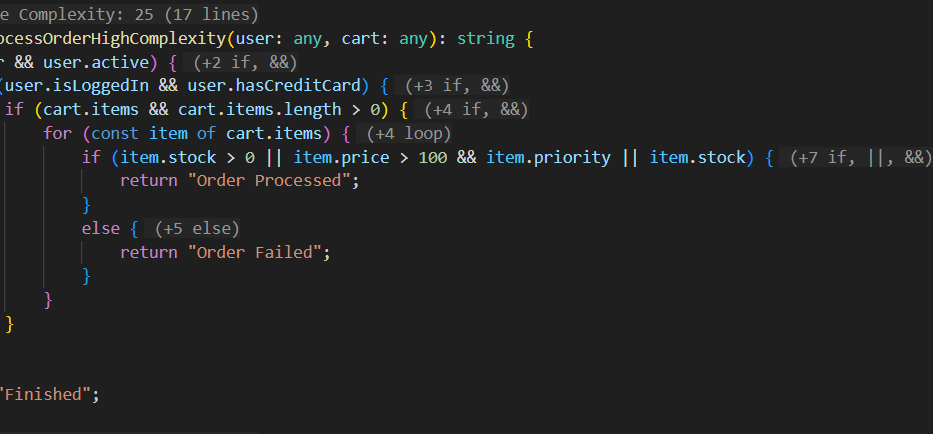
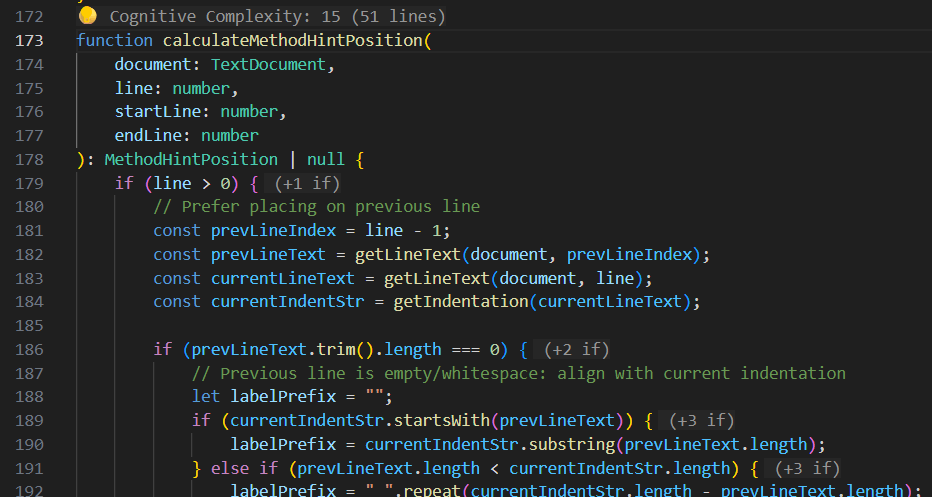
Update README and add walkthrough images
This commit updates the main README and various walkthrough files with
new and improved content. It also adds several new images to the
walkthrough directory, enhancing the visual documentation of the
extension's features, including CodeLens, Inlay Hints, Gutter Icons,
Complexity Deltas, Project Reports, and the Method Explorer.

diff --git a/packages/language-server/src/logic.ts b/packages/language-server/src/logic.ts
@@ -272,8 +272,15 @@ export function computeInlayHints(
                 deltaLabel = ` ${symbol} (${prefix}${method.complexityDelta})`;
             }
 
+            let icon = '🟢';
+            if (method.score >= settings.threshold.error) {
+                icon = '🔴';
+            } else if (method.score >= settings.threshold.warning) {
+                icon = '🟡';
+            }
+
             // If score is 0 but has delta, we might want a different icon or label
-            let label = `${posInfo.labelPrefix}${settings.totalScorePrefix}: ${method.score}${deltaLabel} (${lines} lines)`;
+            let label = `${posInfo.labelPrefix}${icon} ${settings.totalScorePrefix}: ${method.score}${deltaLabel} (${lines} lines)`;
 
             result.push({
                 position: posInfo.position,

diff --git a/packages/vscode-extension/README.md b/packages/vscode-extension/README.md
@@ -1,55 +1,77 @@
 # Cognitive Lens for VS Code
 
-This extension calculates and displays Cognitive Complexity for TypeScript, JavaScript, and C# methods directly in your editor.
+**Cognitive Lens** helps you write cleaner, more maintainable code by visualizing **Cognitive Complexity** directly in Visual Studio Code.
 
-## Features
+It goes beyond simple cyclomatic complexity by assessing how difficult a unit of code is to understand intuitively.
 
-### CodeLens
-Displays the total Cognitive Complexity score above each method.
+## ✨ Key Features
 
-![CodeLens](https://raw.githubusercontent.com/AhmmedSamier/cognitive-lens/main/packages/vscode-extension/resources/walkthrough/images/code-lens.png)
+### 1. Real-time Visualization
+*   **CodeLens**: Display the cumulative complexity score above methods.
+    
+    ![CodeLens](https://raw.githubusercontent.com/AhmmedSamier/cognitive-lens/main/packages/vscode-extension/resources/walkthrough/images/code-lens.png)
 
-### Inlay Hints
-Displays the complexity contribution of each line (e.g., `(+1 if)`).
+*   **Inlay Hints**: Detailed per-line breakdown of what contributes to complexity.
+    *   Example: `if (condition)` -> `+1 (if)`
+    *   Example: Nested logic -> `+2 (nesting)`
+    
+    ![Inlay Hints](https://raw.githubusercontent.com/AhmmedSamier/cognitive-lens/main/packages/vscode-extension/resources/walkthrough/images/score-details-per-line.png)
 
-![Inlay Hints](https://raw.githubusercontent.com/AhmmedSamier/cognitive-lens/main/packages/vscode-extension/resources/walkthrough/images/score-details-per-line.png)
+*   **Gutter Icons**: Traffic light icons in the gutter.
+    
+    ![Gutter Icons](https://raw.githubusercontent.com/AhmmedSamier/cognitive-lens/main/packages/vscode-extension/resources/walkthrough/images/gutters.png)
 
-### Gutter Icons
-Optional traffic light icons in the gutter to indicate complexity status.
+### 2. Complexity Deltas (New) 📉
+Track changes in real-time as you edit. Cognitive Lens compares your current code against the Git HEAD:
+*   **🟢 Improvement**: You reduced complexity (e.g., `🟢 -3`).
+*   **🔴 Regression**: You increased complexity (e.g., `🔴 +2`).
 
-![Gutter Icons](https://raw.githubusercontent.com/AhmmedSamier/cognitive-lens/main/packages/vscode-extension/resources/walkthrough/images/gutters.png)
+![Complexity Deltas](https://raw.githubusercontent.com/AhmmedSamier/cognitive-lens/main/packages/vscode-extension/resources/walkthrough/images/git-delta.png)
 
-### Diagnostics
-Shows warnings (yellow) and errors (red) when complexity exceeds configured thresholds.
+### 3. Project Report (New) 📊
+Generate a full-screen, interactive HTML dashboard to analyze your entire project.
+*   **Command**: Run `Cognitive Lens: Generate Project Report`.
+*   **Features**:
+    *   Sort and filter methods by complexity.
+    *   Fuzzy search for specific files or functions.
+    *   Dark/Light mode support.
 
-### Side Panel
-A "Methods" view in the Activity Bar to list all methods and their complexity scores, with search functionality.
+![Project Report](https://raw.githubusercontent.com/AhmmedSamier/cognitive-lens/main/packages/vscode-extension/resources/walkthrough/images/html-report.png)
 
-## Configuration
+### 4. Refactoring Assistance 💡
+Hover over any method with high complexity to see a **Refactoring Advisory**:
+*   Breakdown of primary contributors (Loops, If/Else, Nesting).
+*   Actionable tips (e.g., "Consider extracting this loop into a separate function").
 
-You can customize the extension behavior in your `settings.json`:
+### 5. Methods Explorer
+A dedicated **Side Panel** view lists all methods in your workspace, sorted by complexity score, making it easy to hunt down technical debt.
+
+![Methods Explorer](https://raw.githubusercontent.com/AhmmedSamier/cognitive-lens/main/packages/vscode-extension/resources/walkthrough/images/side-menu.png)
+
+## ⚙ Configuration
+
+Customize the extension in your `settings.json`:
 
 | Setting | Default | Description |
 | :--- | :--- | :--- |
-| `cognitiveComplexity.threshold.warning` | `15` | Complexity score threshold for showing a warning. |
-| `cognitiveComplexity.threshold.error` | `25` | Complexity score threshold for showing an error. |
-| `cognitiveComplexity.showCodeLens` | `true` | Enable or disable CodeLens for cognitive complexity. |
-| `cognitiveComplexity.showGutterIcon` | `false` | Enable or disable the gutter icon. |
-| `cognitiveComplexity.showDiagnostics` | `true` | Enable or disable diagnostics (warnings/errors). |
-| `cognitiveComplexity.showInlayHints.methodScore` | `false` | Enable or disable the method score inlay hint (useful if CodeLens is disabled). |
-| `cognitiveComplexity.showInlayHints.details` | `true` | Enable or disable detailed contribution inlay hints. |
-| `cognitiveComplexity.totalScorePrefix` | `"Cognitive Complexity"` | The prefix text to display before the total complexity score. |
+| `cognitiveComplexity.threshold.warning` | `15` | Score causing a Warning diagnostic (Yellow). |
+| `cognitiveComplexity.threshold.error` | `25` | Score causing an Error diagnostic (Red). |
+| `cognitiveComplexity.showCodeLens` | `true` | Show score above methods. |
+| `cognitiveComplexity.showInlayHints.details` | `true` | Show line-by-line attribution. |
+| `cognitiveComplexity.showInlayHints.complexityDelta` | `true` | Show complexity changes (Deltas) in inlay hints. |
+| `cognitiveComplexity.showComplexityDeltaDecoration` | `true` | Show colored decorations for deltas. |
+| `cognitiveComplexity.showGutterIcon` | `false` | Show traffic light icons in the gutter. |
 
-## Supported Languages
+## 📦 Supported Languages
 
--   TypeScript (`.ts`, `.tsx`)
--   JavaScript (`.js`, `.jsx`)
--   C# (`.cs`)
+*   **TypeScript** (`.ts`, `.tsx`)
+*   **JavaScript** (`.js`, `.jsx`)
+*   **C#** (`.cs`)
 
-## Installation
+## 🚀 Installation
 
-Install via the Visual Studio Code Marketplace: [Cognitive Lens](https://marketplace.visualstudio.com/items?itemName=AhmedSamir.cognitive-lens)
+Install via the [Visual Studio Code Marketplace](https://marketplace.visualstudio.com/items?itemName=AhmedSamir.cognitive-lens).
 
-## Issues
+## 🤝 Contributing
 
-Please report issues on [GitHub](https://github.com/AhmmedSamier/cognitive-lens/issues).
+Issues and Pull Requests are welcome on [GitHub](https://github.com/AhmmedSamier/cognitive-lens).

diff --git a/README.md b/README.md
@@ -1,41 +1,62 @@
-# Cognitive Complexity Extension
+# Cognitive Lens
 
-This monorepo contains extensions for VS Code and Zed to calculate and display Cognitive Complexity for TypeScript and C# methods.
+**Cognitive Lens** is a powerful developer tool designed to help you visualize, track, and reduce **Cognitive Complexity** in your codebase. It provides real-time feedback directly in your editor, helping you write maintainable, clean code.
 
-## Structure
+This monorepo contains the implementation for the **Language Server**, **VS Code Extension**, and **Zed Extension**.
 
-*   `packages/core`: Core logic for calculating complexity.
-*   `packages/language-server`: LSP server wrapping the core logic.
-*   `packages/vscode-extension`: VS Code extension client.
-*   `packages/zed-extension`: Zed extension source.
+## 🚀 Features
 
-## Features
+### 1. Real-time Analysis
+*   **CodeLens**: See the complexity score directly above every method.
 
-### 1. Real-time Complexity Analysis
-*   **CodeLens**: Displays the total Cognitive Complexity score above each method.
-*   **Inlay Hints**: Displays the complexity contribution of each line (e.g., `(+1 if)`).
-*   **Gutter Icons**: Traffic light indicators (Green, Yellow, Red) for quick visual feedback.
-*   **Diagnostics**: Warnings and Errors for methods exceeding configured thresholds.
+    ![CodeLens](https://raw.githubusercontent.com/AhmmedSamier/cognitive-lens/main/packages/vscode-extension/resources/walkthrough/images/code-lens.png)
 
-### 2. Code Review Helpers
-*   **Complexity Delta**: Shows the change in complexity relative to Git HEAD directly in the editor (e.g., `(+2 Complexity)` in Red or `(-1 Complexity)` in Green).
-*   **Methods View**: A side panel listing all methods sorted by complexity, with search and delta tracking.
+*   **Inlay Hints**: Understand exactly *why* a method is complex with line-by-line attribution (e.g., `+1 (if)`, `+1 (nesting)`).
 
-### 3. Refactoring Assistance
-*   **Smart Hover**: Hover over a high-complexity method signature to see a breakdown of contributors and actionable refactoring tips (e.g., "Deep nesting increases mental load...").
+    ![Inlay Hints](https://raw.githubusercontent.com/AhmmedSamier/cognitive-lens/main/packages/vscode-extension/resources/walkthrough/images/score-details-per-line.png)
 
-### 4. Reporting
-*   **Project Report**: Generate a standalone HTML report for the entire codebase via the `Cognitive Lens: Generate Project Report` command.
+*   **Gutter Indicators**: Traffic light icons (🟢 🟡 🔴) provide immediate visual feedback on method health.
 
-## Prerequisites
+    ![Gutter Icons](https://raw.githubusercontent.com/AhmmedSamier/cognitive-lens/main/packages/vscode-extension/resources/walkthrough/images/gutters.png)
 
-*   [Bun](https://bun.sh/)
-*   Node.js
-*   VS Code
-*   Zed
-*   Rust (for building Zed extension)
+### 2. Historical Context (New)
+*   **Complexity Deltas**: Instantly see how your current edits affect complexity relative to the Git HEAD.
+    *   **Improvements** are highlighted in **Green** (e.g., `🟢 (-2)`).
+    *   **Regressions** are highlighted in **Red** (e.g., `🔴 (+3)`).
 
-## Build Instructions
+    ![Complexity Deltas](https://raw.githubusercontent.com/AhmmedSamier/cognitive-lens/main/packages/vscode-extension/resources/walkthrough/images/git-delta.png)
+
+### 3. Project Insights (New)
+*   **HTML Project Report**: Generate a comprehensive, standalone HTML report for your entire workspace.
+    *   **Dashboard**: Visualize complexity distribution.
+    *   **Explore**: Search and filter methods by complexity score.
+    *   **Theme Aware**: Fully supports Dark and Light modes.
+
+    ![Project Report](https://raw.githubusercontent.com/AhmmedSamier/cognitive-lens/main/packages/vscode-extension/resources/walkthrough/images/html-report.png)
+
+### 4. Smart Refactoring
+*   **Refactoring Tips**: Hover over high-complexity methods to receive tailored advice on how to simplify them (e.g., "Extract Method," "Use Guard Clauses").
+
+### 5. Methods Explorer
+*   **Side Panel**: Lists all methods in your workspace, sorted by complexity score, making it easy to hunt down technical debt.
+
+    ![Methods Explorer](https://raw.githubusercontent.com/AhmmedSamier/cognitive-lens/main/packages/vscode-extension/resources/walkthrough/images/side-menu.png)
+
+## 📂 Repository Structure
+
+*   `packages/core`: The pure Logic/Algorithm for calculating Cognitive Complexity.
+*   `packages/language-server`: LSP implementation that serves complexity data to editors.
+*   `packages/vscode-extension`: The VS Code client extension.
+*   `packages/zed-extension`: The Zed editor extension.
+
+## 🛠 Prerequisites
+
+*   **Runtime**: [Bun](https://bun.sh/) (Required for build scripts)
+*   **Node.js**: LTS version
+*   **Editors**: VS Code or Zed
+*   **Rust**: Required only if building the Zed extension from source.
+
+## 📦 Build Instructions
 
 ### 1. Install Dependencies
 
@@ -49,28 +70,22 @@ bun install
 cd packages/vscode-extension
 bun run package
 ```
+This generates `dist/extension.js` and `dist/server.js`.
 
-This will generate `dist/extension.js` and `dist/server.js`.
-
-### 3. Package VS Code Extension (VSIX)
-
+To create a `.vsix` installer:
 ```bash
-cd packages/vscode-extension
 bun run package:vsix
 ```
 
-## Running
+## 🐞 Running in Development
 
 ### VS Code
-
-1.  Open `packages/vscode-extension` in VS Code.
-2.  Press `F5` to launch a new Extension Development Host window.
-3.  Open a TypeScript or C# file to see complexity scores.
+1.  Open the repository in VS Code.
+2.  Press `F5` to launch a new **Extension Development Host** window.
+3.  Open any TypeScript or C# file to see the extension in action.
 
 ### Zed
-
 1.  Open Zed.
-2.  Go to Extensions -> Install Dev Extension.
+2.  Navigate to **Extensions** -> **Install Dev Extension**.
 3.  Select the `packages/zed-extension` directory.
-    *   Note: Ensure `server.js` is present in that directory.
-4.  Open a TypeScript or JavaScript file.
+    *   *Note: Ensure you have built the language server first.*

diff --git a/packages/vscode-extension/resources/walkthrough/configuration.md b/packages/vscode-extension/resources/walkthrough/configuration.md
@@ -3,14 +3,25 @@
 Customize **Cognitive Lens** to fit your workflow.
 
 ### Thresholds
-Adjust the complexity limits:
-* **Warning**: Default 15.
-* **Error**: Default 25.
+Adjust the complexity limits for warnings and errors:
+* **Warning**: Score threshold for a warning status (Default: 15).
+* **Error**: Score threshold for an error status (Default: 25).
 
 ### Visual Feedback
-Toggle specific features:
-* **CodeLens**: Show score above methods.
-* **Gutter Icon**: Show icon in the margin.
-* **Inlay Hints**: Show detailed complexity breakdown.
+Control how complexity information is displayed in your editor:
+* **CodeLens**: Show the total complexity score above method definitions.
+* **Gutter Icon**: Show an icon in the margin next to complex methods.
+* **Diagnostics**: Enable or disable inline warnings and errors.
+* **Inlay Hints (Method Score)**: Show the total score as an inlay hint.
+* **Inlay Hints (Details)**: Show detailed breakdown of contributions next to specific lines.
+* **Inlay Hints (Complexity Delta)**: Show change in complexity since the last git commit (mainly for non-VS Code editors).
+* **Complexity Delta Decoration**: Show color-coded delta changes (green for improvements, red for regressions) directly in the editor.
+
+### Customization
+* **Total Score Prefix**: Change the text displayed before the complexity score (e.g., "Complexity: 10").
+
+### Advanced
+* **Server Trace**: Trace communication between VS Code and the language server for debugging.
 
 [Configure Settings](command:workbench.action.openSettings?%22cognitiveComplexity%22)
+

diff --git a/packages/vscode-extension/resources/walkthrough/welcome.md b/packages/vscode-extension/resources/walkthrough/welcome.md
@@ -18,3 +18,18 @@ Shows complexity contribution of code structures directly in the code.
 Visual traffic light indicators for complexity levels in the editor gutter.
 
 ![Gutter Icons](images/gutters.png)
+
+#### Complexity Deltas
+Track your progress as you refactor. See if you are making the code simpler or more complex.
+
+![Complexity Deltas](images/git-delta.png)
+
+#### Project Report
+Generate a beautiful, interactive HTML report to analyze your entire workspace.
+
+![Project Report](images/html-report.png)
+
+#### Method Explorer
+Browse all methods in your project, sorted by complexity, via the side panel.
+
+![Method Explorer](images/side-menu.png)
